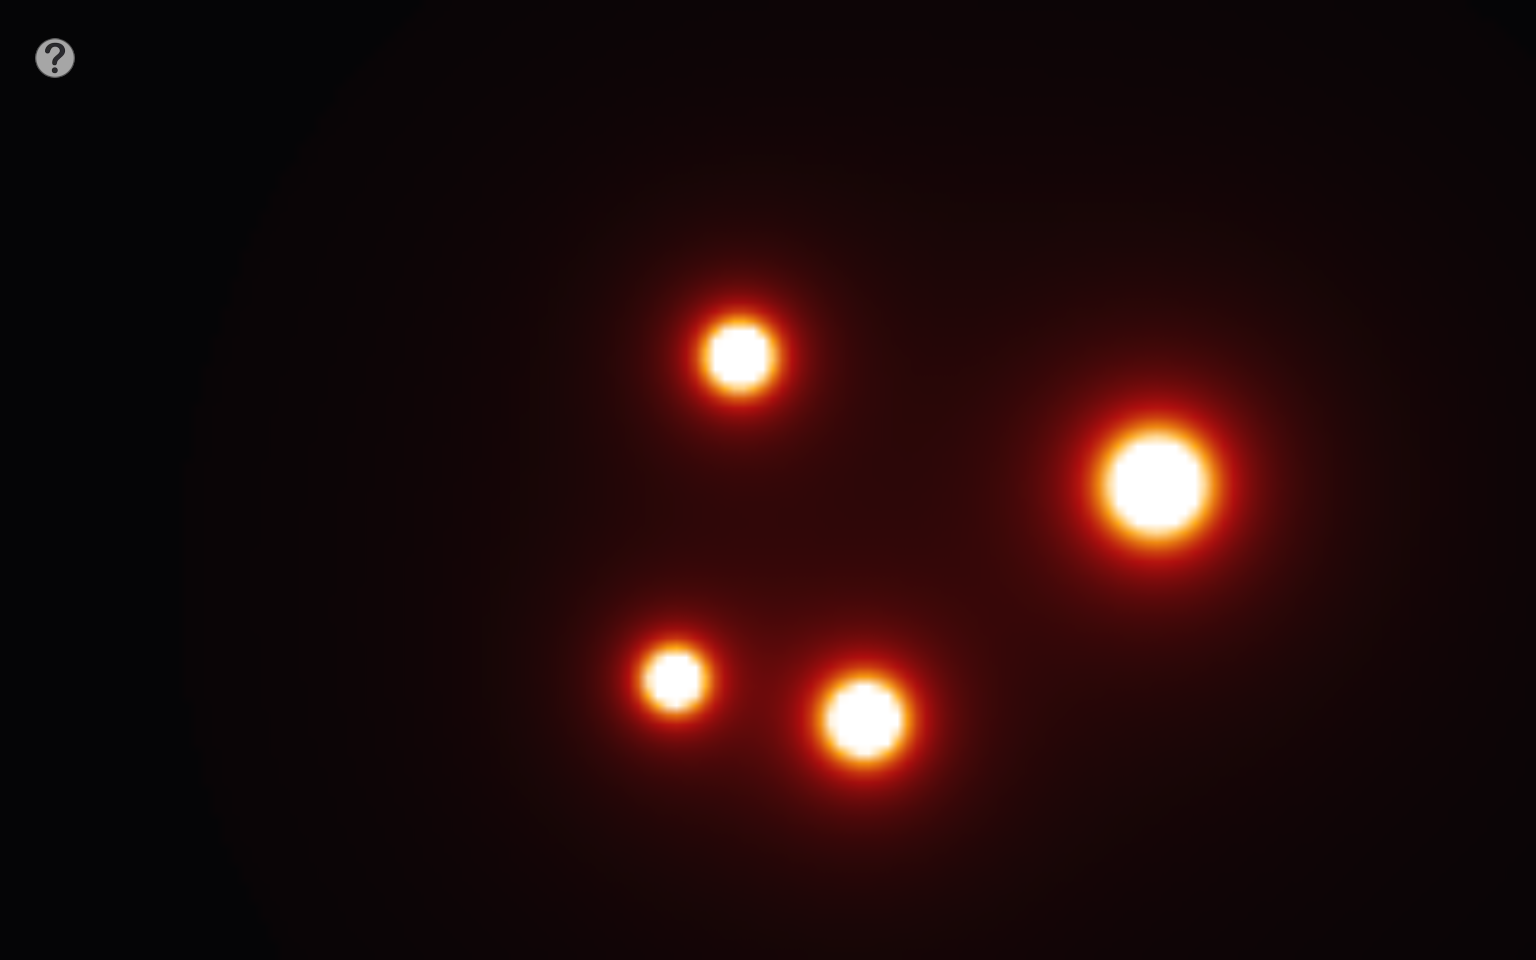
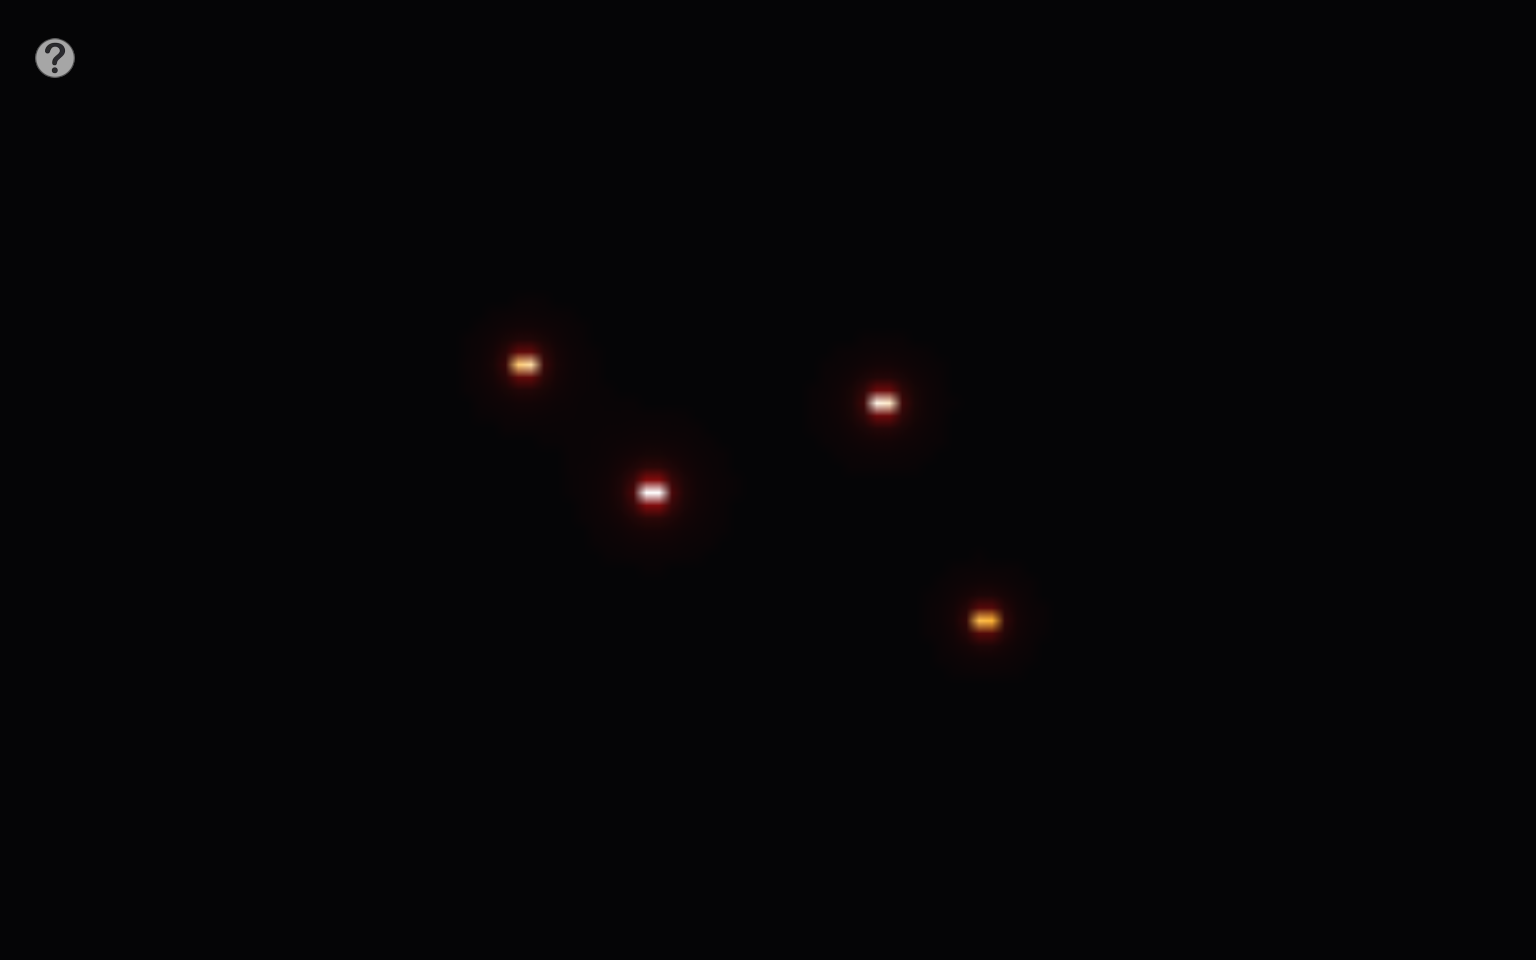
docs: fix Gravitum showcase animations

Changed region(s): [[0.3125, 0.1875, 0.9062, 0.9688]]

diff --git a/README.md b/README.md
@@ -8,11 +8,11 @@ Gravitum permite experimentar con sistemas de varios cuerpos: ajusta sus velocid
 
 ## Campo en dos paletas
 
-La captura oscura oculta los cuerpos para destacar el campo; la clara los muestra como referencia. Ambas se capturaron a 1536 × 960.
+En ambas capturas se ocultan los cuerpos sólidos para destacar únicamente el gradiente gravitatorio. Es el mismo sistema de cuatro cuerpos, en dos paletas. Las capturas se obtuvieron a 1536 × 960.
 
-| Paleta oscura · solo el campo | Paleta clara · campo y cuerpos |
+| Paleta oscura · solo el campo | Paleta clara · solo el campo |
 | --- | --- |
-| ![Campo gravitatorio en paleta oscura, con los cuerpos ocultos para mostrar solo el degradado de intensidad.](docs/assets/gravitum-dark-field.png) | ![Campo gravitatorio en paleta clara con los cuerpos visibles sobre el degradado.](docs/assets/gravitum-light-field.png) |
+| ![Gradiente del campo gravitatorio en paleta oscura, sin cuerpos sólidos visibles.](docs/assets/gravitum-dark-field.png) | ![Gradiente del campo gravitatorio en paleta clara, sin cuerpos sólidos visibles.](docs/assets/gravitum-light-field.png) |
 
 ## De dos cuerpos a muchos
 
@@ -30,21 +30,21 @@ Con más entidades, las zonas de intensidad se combinan alrededor de todo el sis
 
 ## Colisiones y órbitas
 
-En esta secuencia, dos cuerpos se acercan con velocidades iniciales, colisionan y continúan su movimiento. El GIF está reducido a 768 × 480 para que cargue con más facilidad.
+La secuencia muestra dos cuerpos que se aproximan, entran en contacto y se separan tras la colisión. El GIF conserva 1024 × 640 píxeles para que el movimiento se lea con claridad sin cargar la captura completa.
 
 <p align="center">
-  <img src="docs/assets/gravitum-collision.gif" alt="Animación de dos cuerpos que se aproximan, colisionan y se separan dentro del campo gravitatorio." width="768">
+  <img src="docs/assets/gravitum-collision.gif" alt="Dos cuerpos se aproximan, colisionan y rebotan mientras cambia el campo gravitatorio." width="1024">
 </p>
 
 ![Instante de contacto entre dos cuerpos durante una colisión, con el campo gravitatorio visible.](docs/assets/gravitum-collision.png)
 
-El modo orbital asistido asigna una velocidad inicial tangencial al segundo cuerpo. El GIF muestra un tramo de esa evolución en el simulador.
+El modo orbital asistido asigna una velocidad inicial tangencial al cuerpo pequeño. La animación recorre una vuelta completa alrededor del cuerpo central; incluye 96 fotogramas a 1024 × 640. La captura fija muestra la escena aproximadamente a un cuarto de vuelta.
 
 <p align="center">
-  <img src="docs/assets/gravitum-orbit.gif" alt="Animación de un cuerpo pequeño recorriendo una trayectoria alrededor de un cuerpo mayor, con el campo gravitatorio visible." width="768">
+  <img src="docs/assets/gravitum-orbit.gif" alt="Vuelta completa de un cuerpo pequeño alrededor de una masa central, con el campo gravitatorio visible." width="1024">
 </p>
 
-![Dos cuerpos en movimiento orbital asistido, rodeados por sus zonas de intensidad gravitatoria.](docs/assets/gravitum-orbit.png)
+![Captura del modo orbital asistido aproximadamente a un cuarto de vuelta, con el campo gravitatorio visible.](docs/assets/gravitum-orbit.png)
 
 ## Cómo probarlo
 
